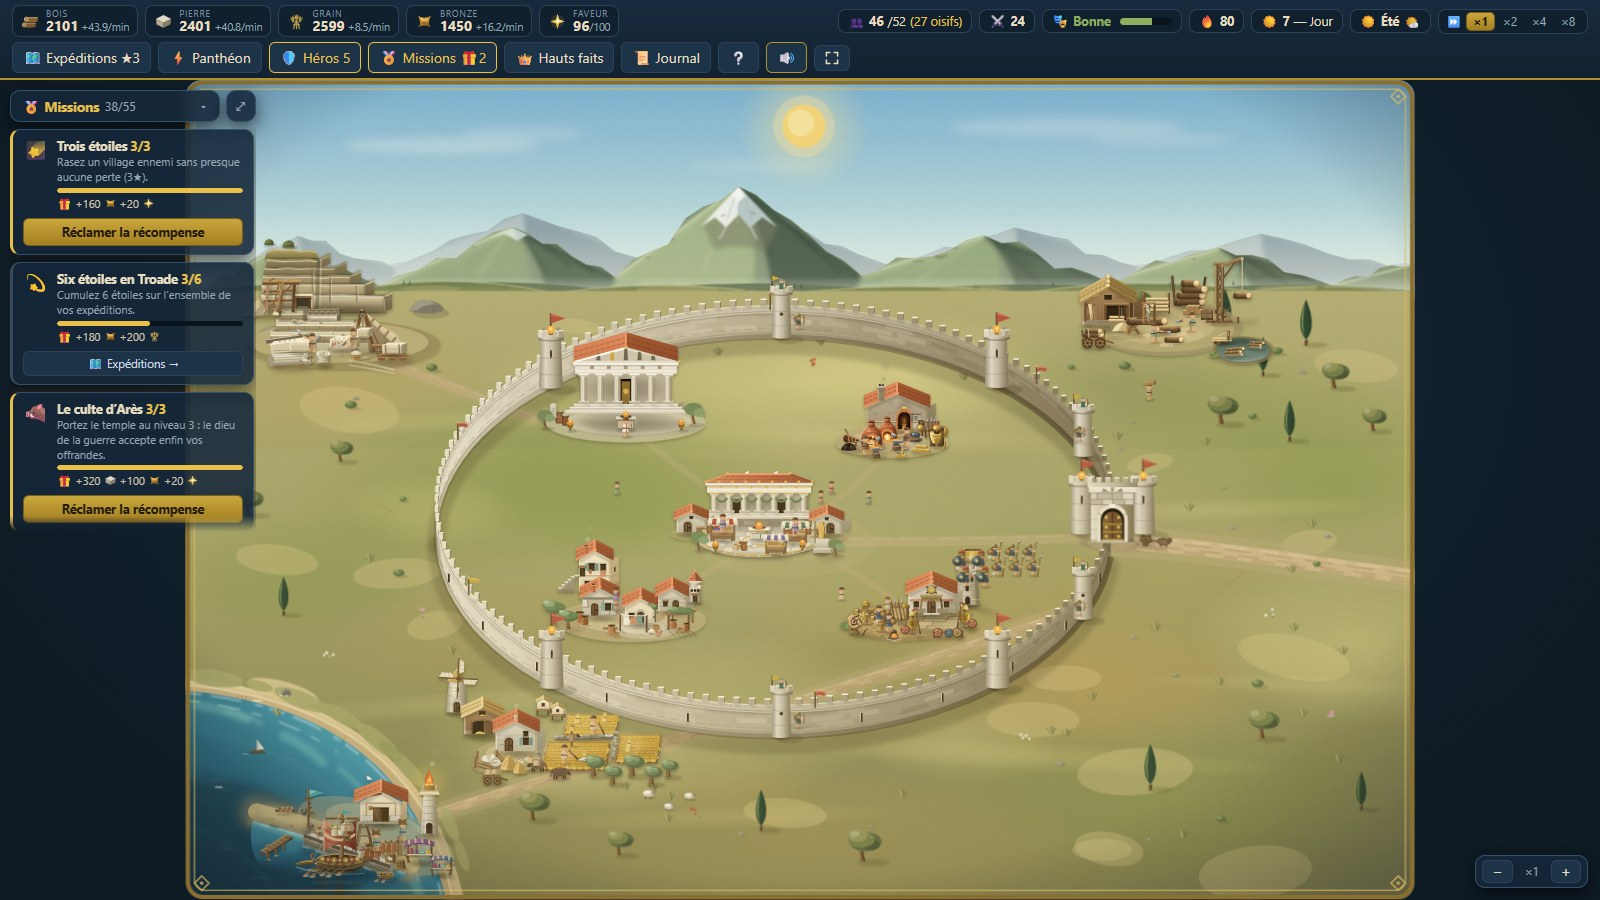
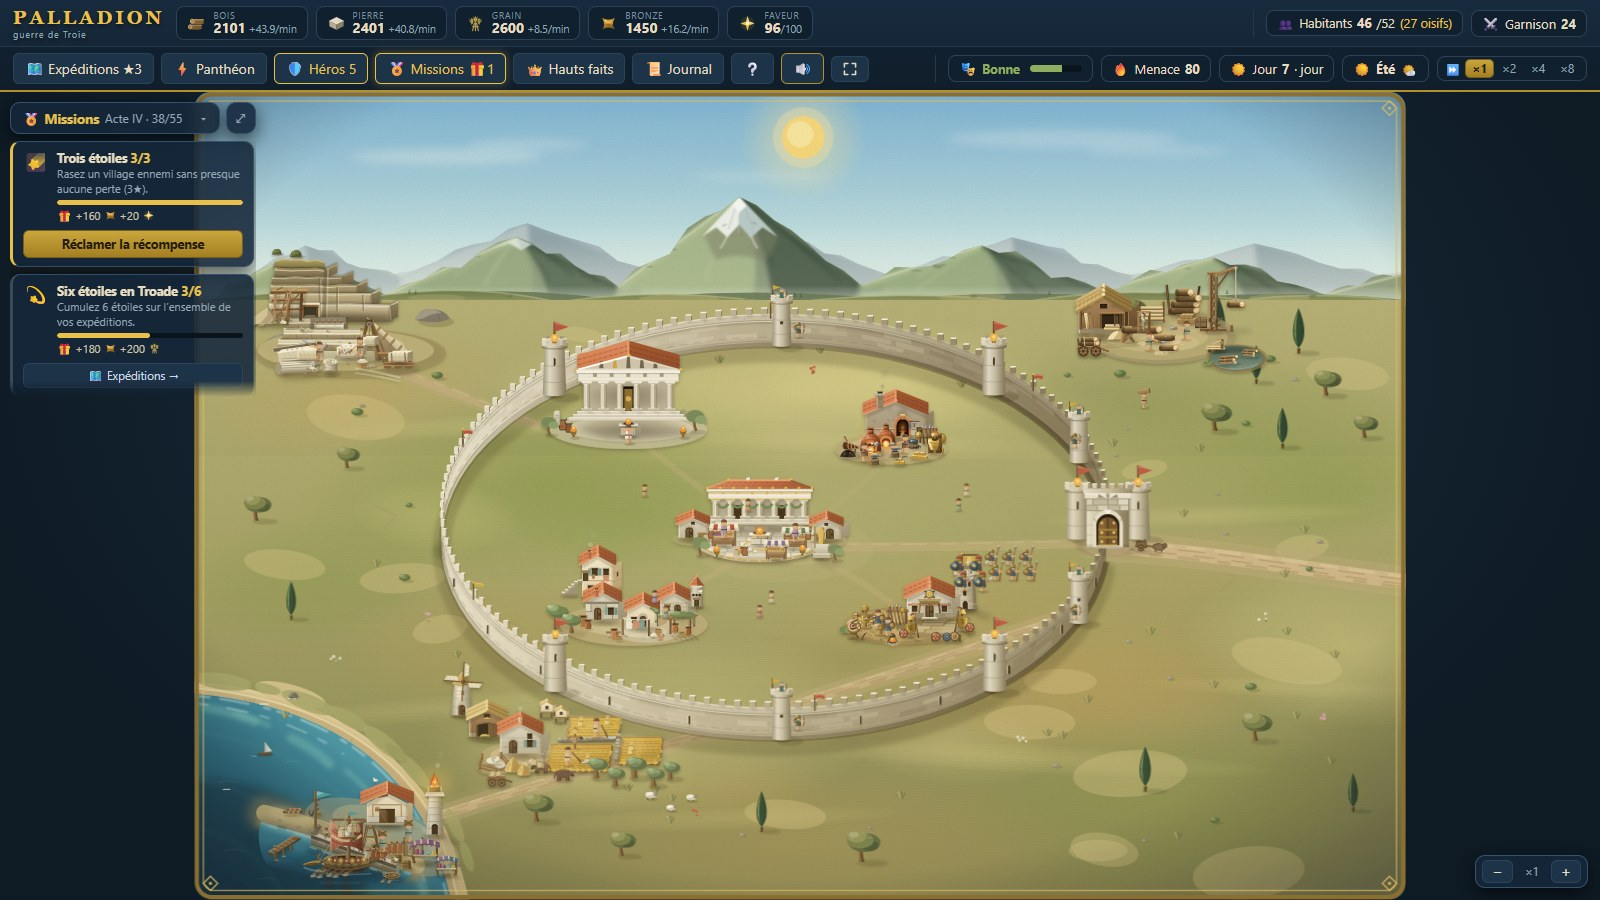
docs : lot 6 livré — campagne, tests et bundle documentés, quatorze captures régénérées

diff --git a/docs/ROADMAP.md b/docs/ROADMAP.md
@@ -39,6 +39,20 @@ et d'**impact joueur** (★ à ★★★). Les lots livrés sont conservés pour
 | Héros incarnés | Ils arpentent la place du village à leurs couleurs, et descendent se battre au premier rang (stats liées au niveau). Tombés, ils sont **blessés** et non retirés de l'effectif — seul l'arc tue. La ligne de défense est passée d'un point unique à trois rangs, ce qui rend la mêlée lisible. |
 | Pictogrammes | Les icônes peintes gagnent missions, agora, port, héros, panthéon ; la médaille de bronze 🥉 disparaît des 61 textes qui la traînaient encore. |
 
+## ✅ Lot 6 — livré
+
+| Sujet | Ce qui a été fait |
+|---|---|
+| **Campagne « La Chute »** | Cinq actes qui suivent l'Iliade — les mille nefs, la colère, sous les murs, le fleuve, le cheval. Chaque acte impose son état de départ (bâtiments debout, garnison, saison, ciel, relations, jusqu'à un pan de mur déjà à terre à l'acte IV), quatre à six objectifs dont deux au moins portent sur la MANIÈRE de tenir (« trois assauts sans qu'un pan cède », « un assaut sans perdre un homme »), une condition de défaite réelle, un prologue et un épilogue, et parfois un héros que le récit impose sans rançon — Hector à l'acte III, Achille au IV, Énée et Cassandre au V. Les compteurs d'acte sont des DIFFÉRENCES : un acte ne mesure que ce qui s'y passe. L'écran d'accueil demande désormais le mode ; le fil rouge du bac à sable se tait en campagne. |
+| Tests automatisés | Vitest + jsdom, **165 tests** sur huit domaines : comptoir et métiers, moteur de bataille (invariants d'une bataille entière), production et postes, résolution hors-ligne et sauvegardes partielles, hauts faits et prestige, missions et actes, héros et arcs, saisons et météo. `npm test`. Trois vrais défauts de production sont documentés au passage (voir dette). |
+| Découpage du bundle | Un seul morceau de 916 kB → **491 kB** de châssis + 355 kB d'art de bâtiments + 107 kB de récit, chargés à part. Le premier écran ne porte plus les 6 500 lignes de SVG des dix domaines. |
+| Actes de missions verrouillés | Le fil rouge du bac à sable respire : trois missions ouvertes à la fois **jamais au-delà de l'acte en cours**, en-têtes d'acte permanents (achevé / en cours / scellé) avec leur avancement, et l'acte courant rappelé dans le suivi de carte. |
+| Musique de la paix, troisième version | Elle sonnait « la sonnerie d'école » : cinq voix résonnaient en permanence et une attaque pincée toutes les six dixièmes de seconde. Le coupable n'était ni le mode ni le volume mais le NOMBRE D'ATTAQUES — 160 par minute. Une seule voix soufflée désormais (attaque d'une demi-seconde), une note toutes les deux secondes et demie, un bourdon continu, une figure de lyre par phrase : **24 attaques par minute**, mesurées au navigateur. |
+| Bandeau du haut | Deux rangs assumés — « ce que je possède » (réserves, faveur, habitants, garnison), « ce qui m'arrive » (ambiance, menace, jour, ciel, vitesse) — séparés par un filet, avec des jetons plus aérés et des paliers de repli bien plus tardifs. Vérifié sans un chevauchement de 1920 à 980 px. |
+| Vue de bataille nettoyée | Le liseré doré au pied du pan menacé et l'émoji explosion clignotant ont disparu : la jauge de secteur dit déjà lequel souffre, en toutes lettres. |
+| Sortie de la leçon | L'encart de Zeus ne peut plus se poser sur la croix de fermeture d'un panneau : les barres de titre sont des « zones sacrées » qui pèsent quarante fois plus lourd dans le calcul de placement. Les trois étapes « ouvrez puis refermez » nomment la croix. |
+| Départs de famine | Un grenier vide ne coûtait qu'un malus d'ambiance : on part maintenant, par foyers, jamais sous deux âmes. C'est ce qui donne du mordant aux défaites d'acte. |
+
 ## ✅ Lot 5 — livré
 
 | Sujet | Ce qui a été fait |
@@ -104,7 +118,7 @@ et peut partir si on l'ignore. Ils sont une puissance, pas un cadeau.
 
 | Mode | Effort | Impact | Description |
 |---|---|---|---|
-| **Campagne — La Chute** | XL | ★★★ | 5 actes scénarisés suivant l'Iliade, du débarquement achéen à la ruse du cheval. Objectifs imposés, cartes différentes, héros scriptés. C'est ce qui transformerait le jeu en *jeu narratif* plutôt qu'en bac à sable. |
+| ~~**Campagne — La Chute**~~ | ~~XL~~ | ★★★ | **Livré au lot 6** — voir ci-dessus. |
 | **Siège sans fin** | M | ★★★ | Vagues de difficulté croissante, sans répit, score et classement local. Le meilleur rapport plaisir/effort : réutilise tout le moteur de bataille. |
 | **Nouvelle Partie +** | M | ★★ | Rejouer en gardant le prestige : bonus de départ, héros déjà connus, difficulté accrue. Donne une raison de finir une partie. |
 | **Défi de la semaine** | M | ★★ | Graine fixe partagée par tous (même carte, mêmes vagues, mêmes dilemmes), score comparable. Excellent pour le partage. |
@@ -159,21 +173,27 @@ et peut partir si on l'ignore. Ils sont une puissance, pas un cadeau.
 
 ---
 
-## Ordre conseillé (après les lots 2 à 5)
+## Ordre conseillé (après les lots 2 à 6)
 
-1. **Tests automatisés** : le jeu tient maintenant dans ~15 000 lignes et tout se vérifie encore à la main. Vitest sur l'économie, le combat, la résolution hors-ligne et les hauts faits — c'est le plus rentable désormais.
-2. **Découpage du bundle** : 870 kB en un seul morceau. L'art des bâtiments et les décors d'expédition sont les premiers candidats à l'import dynamique.
-3. **Siège sans fin** : peu de code, beaucoup de rejouabilité — et les hauts faits sont déjà là pour le noter.
-4. **Nouvelle Partie +** : le prestige est calculé et figé à l'abdication ; il ne reste qu'à le reporter sur la partie suivante.
-5. **Formations et unités** puis **héros ennemis** (Achille assiégeant *votre* village, avec ses capacités retournées contre vous — tout le socle existe).
-6. **Familles et lignées** : le prolongement le plus naturel des villageois nommés.
-7. **Campagne narrative** en dernier : un projet à part entière, à lancer quand tout le socle est stable.
+1. **Cartes propres à chaque acte** : la campagne change la saison, le ciel, l'état de départ et le récit, mais tous les actes se jouent sur la même plaine. C'est la dette la plus visible du lot 6 — cinq terrains (grève, plaine, murailles, fleuve, ruines) sont déjà nommés dans le type `CadreActe` et n'attendent que leur art.
+2. **Siège sans fin** : peu de code, beaucoup de rejouabilité — et les hauts faits sont déjà là pour le noter.
+3. **Nouvelle Partie +** : le prestige est calculé et figé à l'abdication ; il ne reste qu'à le reporter sur la partie suivante.
+4. **Formations et unités** puis **héros ennemis** (Achille assiégeant *votre* village, avec ses capacités retournées contre vous — tout le socle existe).
+5. **Familles et lignées** : le prolongement le plus naturel des villageois nommés.
+6. **Tests de rendu** : les 165 tests couvrent les règles, pas les composants. Un test de rendu sur le HUD et les panneaux attraperait ce que seul l'œil voit aujourd'hui.
 
 ## 🐞 Dette connue
 
-- Le bundle dépasse 500 kB : aucun découpage dynamique pour l'instant.
-- Aucun test automatisé : chaque lot est vérifié à la compilation, aux captures (qui échouent
-  sur la moindre erreur JS) et à des parcours Playwright joués à la main.
+- **Les cinq cadres d'acte (`CadreActe`) ne sont pas peints** : la campagne joue sur la carte du
+  village, avec la saison et le ciel de l'acte pour tout dépaysement. La grève de Sigée et les
+  ruines d'Ilion méritent leur propre terrain.
+- Trois défauts trouvés par les tests et **non corrigés** (ils demandent un arbitrage d'équilibrage) :
+  `lancerExpedition` ne transmet pas `reducJoueur`, donc la garde d'Ajax ne protège personne en
+  expédition ; `benir` calcule la puissance sur la relation BRUTE alors que le panthéon affiche la
+  relation effective (l'orgueil d'Agamemnon est cosmétique sur les bénédictions) ; l'arc d'Achille a
+  un cul-de-sac (plafond 3 contre un nœud qui exige le niveau 4).
+- `pertesCiviles` ne compte que les départs de famine : un assaut perdu vole des réserves, il ne
+  tue personne.
 - Le réglage du son a changé de clé (`palladion-audio-v2`) pour imposer les nouveaux volumes :
   un joueur qui avait baissé la musique la retrouvera au réglage par défaut.
 - Le comptoir d'échange n'a pas de mémoire : il propose toujours bois → bronze à l'ouverture.

diff --git a/README.md b/README.md
@@ -18,6 +18,23 @@ Zéro image, zéro son téléchargé : **tout est dessiné et synthétisé par l
 
 ## ✨ Ce qui rend PALLADION différent
 
+### 🐴 « La Chute » — une campagne en cinq actes
+Au premier lancement, on choisit : **bac à sable** (bâtir sans fin, cinquante-cinq missions,
+abdication au moment voulu) ou **campagne**. La campagne suit l'Iliade — les mille nefs, la
+colère d'Achille, sous les murs, le fleuve, le cheval — mais d'un point de vue qui n'est pas
+celui de l'épopée : **vous n'êtes pas Troie**. Vous tenez un village de la Troade sur la route
+des armées, et la grande guerre vous écrase par accident.
+
+Chaque acte **impose une situation héritée** plutôt qu'un départ à zéro : les bâtiments debout,
+la garnison, la saison, le ciel, les relations divines — et jusqu'à un pan de mur déjà à terre à
+l'acte IV, qui s'ouvre donc sur un siège en cours. Les objectifs ne demandent pas des totaux mais
+**une manière de tenir** : « trois assauts sans qu'un seul pan cède », « un assaut sans perdre un
+homme », « la quatrième tour avant la nuit du sac ». Chacun peut se perdre, et l'on reprend l'acte,
+pas la campagne. Certains héros s'imposent à vous sans rançon parce que le récit les amène : Hector
+à l'acte III, Achille au IV, Énée et Cassandre dans les cendres du V.
+
+![Le prologue de l'acte I](docs/campagne.jpg)
+
 ### ⚡ Zeus vous prend par la main
 La première partie ne commence pas par un pavé d'aide : le maître de l'Olympe
 descend et fait la leçon lui-même, en quinze étapes. À chaque fois, tout
@@ -159,7 +176,8 @@ confiance d'un dieu… Chaque réclamation finance l'étape suivante : pas de te
 Et elles ne sont pas une liste posée à côté du jeu : **chaque mission a un bouton qui
 ouvre l'écran où elle se joue** (« 👥 Recensement », « 🏛 Agora », « 🗺 Expéditions »…),
 le bandeau du haut porte le fil complet acte par acte, et une récompense réclamée laisse
-une ligne au journal du village comme une bataille.
+une ligne au journal du village comme une bataille. Trois missions sont ouvertes à la fois,
+**jamais au-delà de l'acte en cours** : il faut achever un acte pour que le suivant se descelle.
 
 | Le suivi, toujours à l'écran | Le fil complet, cinq actes |
 | --- | --- |
@@ -172,15 +190,15 @@ greniers, promettez (et tenez parole !), ou réprimez dans le sang. À 0, vos so
 désertent. L'ambiance tient en un mot, toujours lisible dans le bandeau du haut.
 
 ### 🎵 Une bande-son entièrement synthétisée
-Pas un octet d'audio téléchargé : tout est fabriqué à la volée en **Web Audio**. Au
-village, une lyre et une flûte de berger se répondent sur une **pentatonique majeure**
-(aucun demi-ton : il est musicalement impossible d'y sonner inquiétant), soutenues par une
-basse pincée sur les temps forts, une tierce complice sous la mélodie et un bourdon chaud
-qui ne s'interrompt jamais. Deux phrases alternent, l'une posant la question et l'autre y
-répondant — de quoi tenir trente-deux temps avant de se répéter. **C'est une pièce, pas un
-signal.** Les cors de guerre montent à l'alerte, le tambour de siège prend le relais quand
-la colonne touche les murs, et le chant de l'aède salue la victoire. Coupe-son et deux
-curseurs persistés — et rien ne joue avant votre premier geste.
+Pas un octet d'audio téléchargé : tout est fabriqué à la volée en **Web Audio**. Au village,
+une flûte de berger égrène une **pentatonique majeure** (aucun demi-ton : il est musicalement
+impossible d'y sonner inquiétant) au-dessus d'un bourdon qui ne s'interrompt jamais, avec une
+figure de lyre par phrase. **Une note toutes les deux secondes et demie, pas davantage** : le
+défaut d'une musique fatigante n'est ni son mode ni son volume mais son nombre d'attaques, et
+celle-ci en compte vingt-quatre à la minute là où la version précédente en comptait cent
+soixante. Les cors de guerre montent à l'alerte, le tambour de siège prend le relais quand la
+colonne touche les murs, et le chant de l'aède salue la victoire. Coupe-son et deux curseurs
+persistés — et rien ne joue avant votre premier geste.
 
 ### 🌙 Le temps continue sans vous — et vous menez la caméra
 Jeu en temps réel avec cycle jour/nuit. Onglet fermé, le village vit : production,
@@ -190,10 +208,11 @@ tout, avec retour automatique en ×1 pendant les batailles. Et la carte se manip
 **molette** pour zoomer là où pointe le curseur, **glisser** pour se déplacer,
 **double-clic** pour rendre la main à la caméra automatique.
 
-Chaque jeton du bandeau du haut — ressources, ambiance, menace, saison, ciel, vitesse du
-temps — ouvre au survol un **encart chiffré** qui dit à quoi il sert, ce qu'il vaut et ce
-qui le fait bouger. Et tout menu se referme de trois façons : sa **croix**, la touche
-**Échap**, ou un clic à côté.
+Le bandeau du haut se lit en **deux rangs** : ce que le village *possède* (réserves, faveur,
+habitants, garnison), puis ce qui lui *arrive* (ambiance, menace, jour, ciel, vitesse du temps).
+Chaque jeton ouvre au survol un **encart chiffré** qui dit à quoi il sert, ce qu'il vaut et ce
+qui le fait bouger. Et tout menu se referme de trois façons : sa **croix**, la touche **Échap**,
+ou un clic à côté.
 
 ## 🎮 Systèmes de jeu
 
@@ -215,7 +234,11 @@ qui le fait bouger. Et tout menu se referme de trois façons : sa **croix**, la 
 - **Campagne** : 8 villages à piller ou à secourir, étoiles, butin dégressif, garnisons qui
   se renforcent, alliances à tribut — le moteur de bataille est le même en attaque et en défense
 - **4 saisons × 6 météos** pesant sur la récolte, la portée, l'allure et l'alerte
-- **41 dilemmes** à issues multiples, **55 missions**, **45 hauts faits**
+- **Deux modes** : bac à sable sans fin, ou **campagne « La Chute »** en 5 actes à objectifs
+  imposés, situation héritée et héros scriptés — un acte perdu se reprend, la campagne non
+- **41 dilemmes** à issues multiples, **55 missions** en 5 actes verrouillés, **45 hauts faits**
+- **165 tests** Vitest sur les règles : comptoir, combat, production, hors-ligne, hauts faits,
+  missions, héros, saisons (`npm test`)
 - **Menace** croissante, vagues générées par budget, déroute ennemie à 70 % de pertes
 - Sauvegarde automatique en `localStorage` (aucun serveur, aucun compte)
 
@@ -238,8 +261,9 @@ npm install
 npm run dev       # http://localhost:5173
 npm run dev:test  # 🧪 mode test : ressources illimitées, chantiers/recrues instantanés,
                   #    bouton « Attaque » pour déclencher un assaut à la demande
-npm run build     # production dans dist/
+npm run build     # production dans dist/ (châssis, art et récit en trois morceaux)
 npm run preview   # tester le build
+npm test          # 165 tests Vitest sur les règles du jeu
 ```
 
 ### 📸 Regénérer les captures du README
@@ -266,13 +290,14 @@ c'est aussi le test de fumée du projet.
 
 ## 🗺 Pistes d'évolution
 
-- **Tests automatisés** (Vitest sur l'économie, le combat, la résolution hors-ligne)
+- **Cartes propres à chaque acte** de la campagne : les cinq cadres (grève, plaine, murailles,
+  fleuve, ruines) sont nommés dans le code et n'attendent que leur terrain peint
 - **Siège sans fin** : vagues de difficulté croissante, score et classement local
 - **Nouvelle Partie +** : rejouer en gardant le prestige du règne précédent
 - **Formations et ordres** en bataille, nouvelles unités (frondeur, char, machines de siège)
 - **Héros ennemis nommés** : Achille assiégeant *votre* village, capacités retournées contre vous
 - **Familles et lignées** : les villageois se marient, vieillissent, transmettent leur métier
-- **Campagne narrative** en cinq actes, de l'Iliade au cheval de bois
+- **Tests de rendu** : les 165 tests couvrent les règles, pas les composants
 - i18n (structure des textes déjà centralisée)
 
 ---
